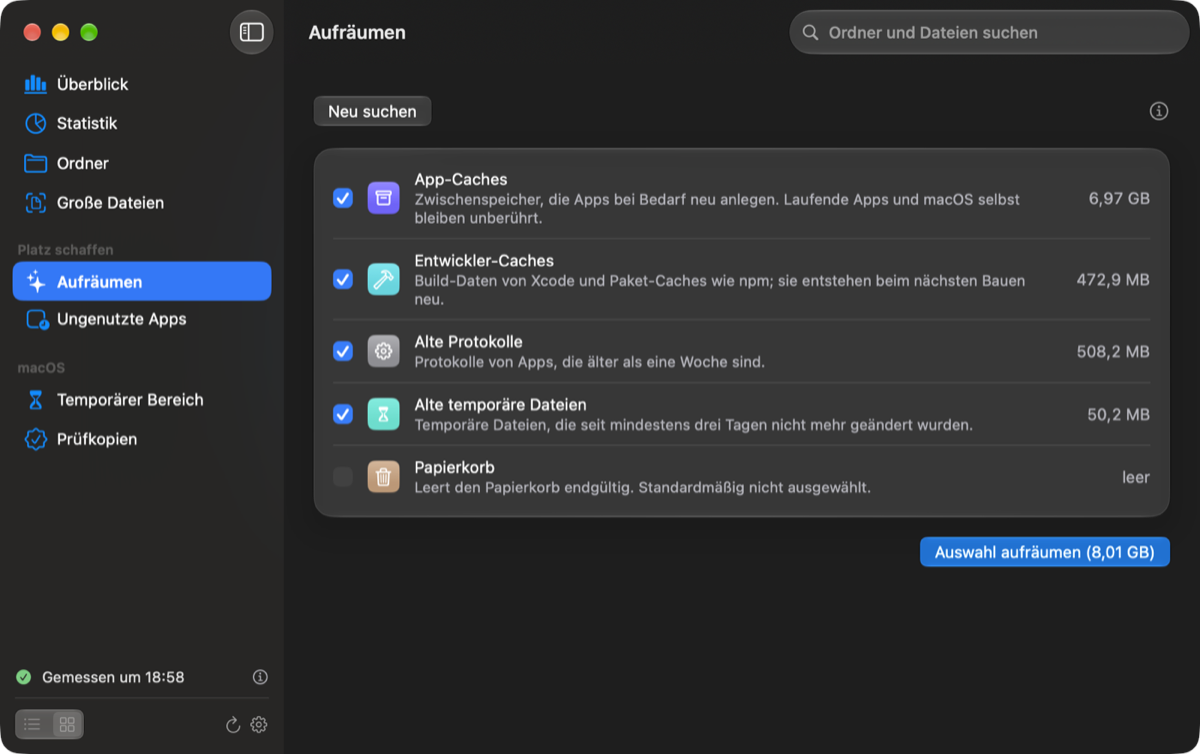
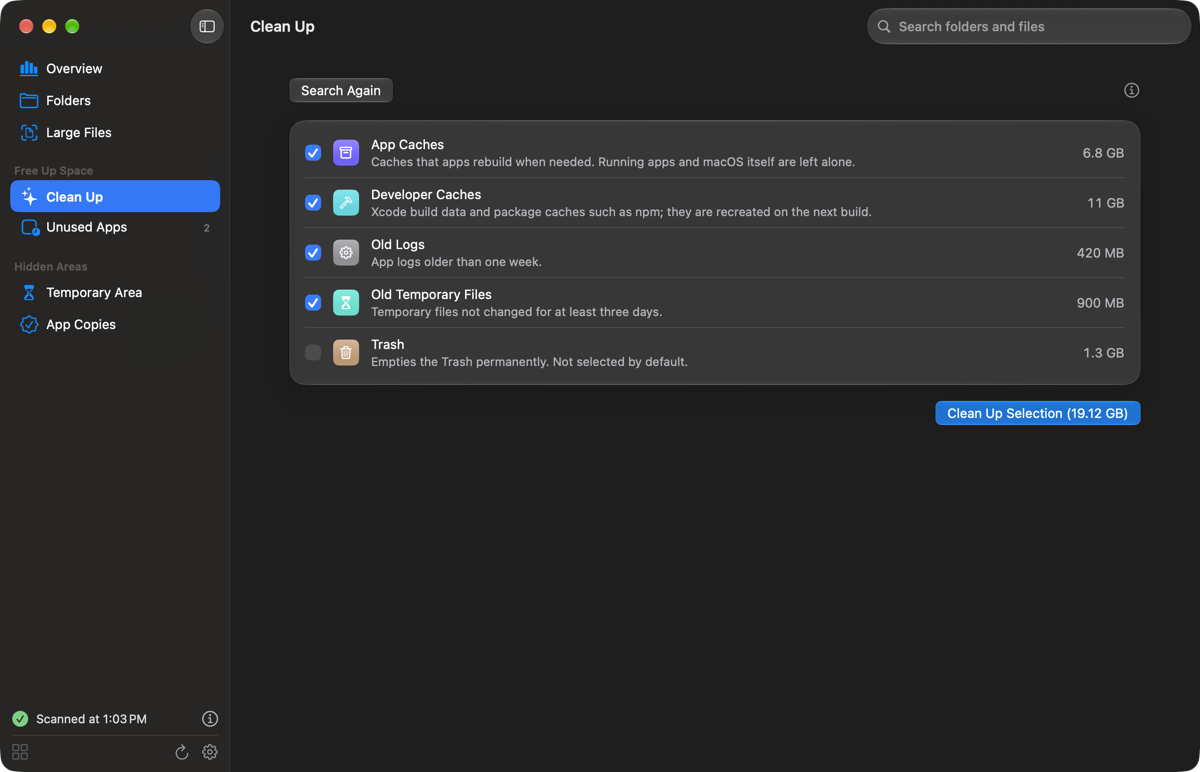
docs: English screenshots of the demo in the README
The three pictures in the README showed the German interface. They are now taken from the demo
with made-up data in English: the overview, Clean Up in dark appearance and Unused Apps, which
replaces the scan picture because the demo does not scan. A line under the pictures says that
they show the demo.

diff --git a/README.md b/README.md
@@ -38,12 +38,14 @@ without a terminal, and that you can share with others without having to wait fo
     <td align="center"><sub>In <b>Clean Up</b> you choose what may go, shown here in dark appearance</sub></td>
   </tr>
   <tr>
-    <td colspan="2" align="center" valign="top"><img src="assets/screenshots/scan.png" width="50%" alt="Scan with progress in the sidebar"></td>
+    <td colspan="2" align="center" valign="top"><img src="assets/screenshots/unused-apps.png" width="50%" alt="Unused Apps with the time since each app was last opened"></td>
   </tr>
   <tr>
-    <td colspan="2" align="center"><sub>During a <b>scan</b>, the bottom of the sidebar shows the progress</sub></td>
+    <td colspan="2" align="center"><sub><b>Unused Apps</b> lists the apps you have not opened for a long time</sub></td>
   </tr>
 </table>
+
+<sub>The pictures show the demo with made-up data, which `make demo` opens.</sub>
 
 ## <img src="assets/icons/features.svg" height="33" align="absmiddle" alt="">What the app can do
 
